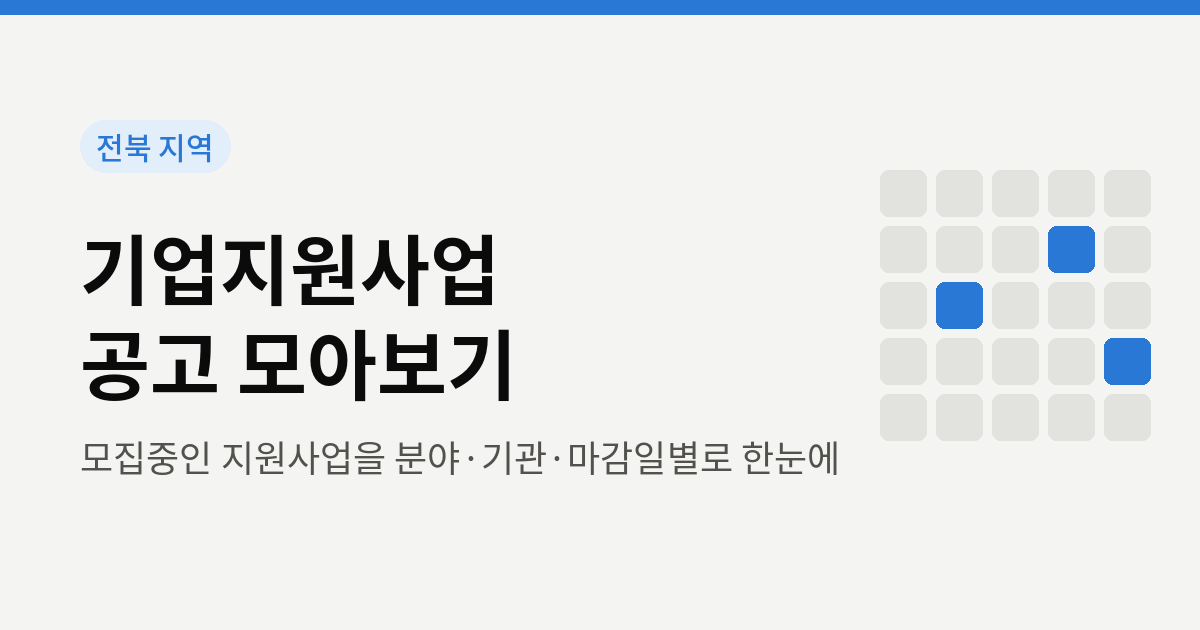
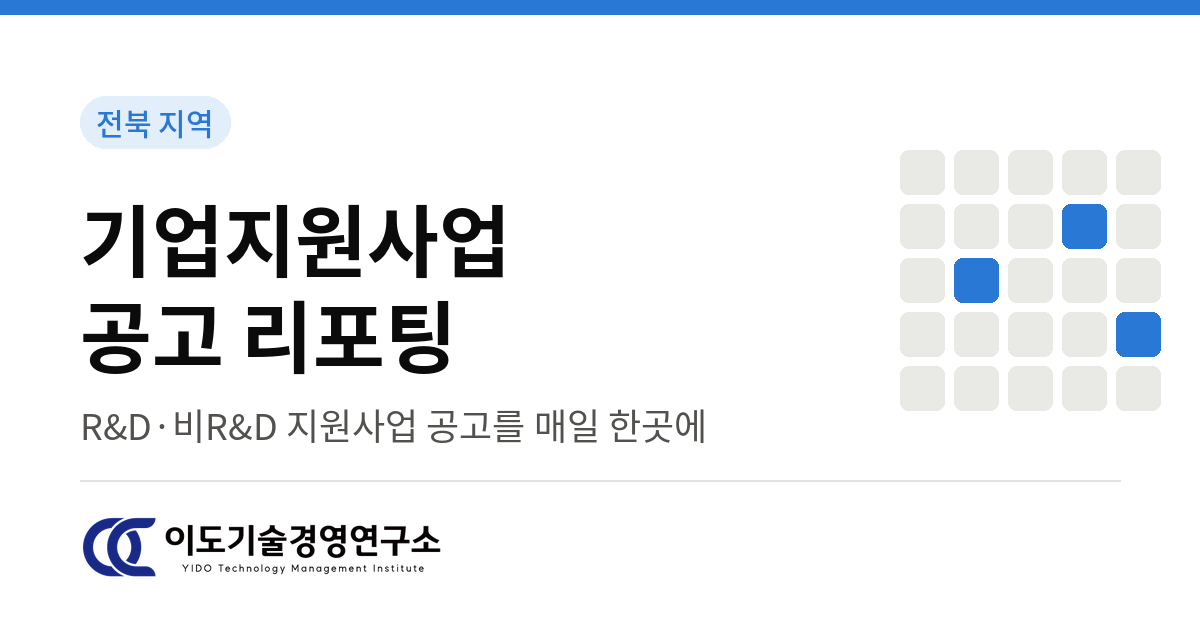
헤더 문구 변경(공고 리포팅), 이도기술경영연구소 로고 추가, 미리보기 이미지 교체
Claude-Session: https://claude.ai/code/session_01BttAXHtCKaFPysazJ2ceDH

diff --git a/index.html b/index.html
@@ -3,17 +3,18 @@
 <head>
 <meta charset="utf-8">
 <meta name="viewport" content="width=device-width, initial-scale=1">
-<title>전북 기업지원사업 공고 모아보기</title>
-<meta property="og:title" content="전북 기업지원사업 공고 모아보기">
-<meta property="og:description" content="모집중인 지원사업을 분야·기관·마감일별로 한눈에">
+<title>전북 기업지원사업 공고 리포팅 | 이도기술경영연구소</title>
+<meta property="og:title" content="전북 기업지원사업 공고 리포팅">
+<meta property="og:site_name" content="이도기술경영연구소">
 <meta property="og:type" content="website">
 <meta property="og:url" content="https://kahojung.github.io/JB-support/">
 <meta property="og:image" content="https://kahojung.github.io/JB-support/og.png">
 <meta property="og:image:width" content="1200">
 <meta property="og:image:height" content="630">
 <meta name="twitter:card" content="summary_large_image">
-<meta name="description" content="모집중인 지원사업을 분야·기관·마감일별로 한눈에">
+<meta name="description" content="전북 기업에 도움이 되는 R&amp;D·비R&amp;D 지원사업 공고를 매일 한곳에 모아 전해드립니다">
 <meta name="robots" content="noindex">
+<meta property="og:description" content="전북 기업에 도움이 되는 R&amp;D·비R&amp;D 지원사업 공고를 매일 한곳에 모아 전해드립니다">
 <link rel="preconnect" href="https://fonts.googleapis.com">
 <link href="https://fonts.googleapis.com/css2?family=Noto+Sans+KR:wght@400;500;700;800&display=swap" rel="stylesheet">
 <style>
@@ -43,9 +44,15 @@ a{color:inherit}
 header.top{background:var(--surface);border-bottom:1px solid var(--line)}
 header.top .wrap{display:flex;align-items:center;justify-content:space-between;gap:12px;padding-top:18px;padding-bottom:16px;flex-wrap:wrap}
 .brand{display:flex;align-items:center;gap:10px}
-.logo{width:34px;height:34px;border-radius:9px;background:var(--accent);display:grid;place-items:center;color:#fff;font-weight:800;font-size:15px}
+.logo{flex:none;width:34px;height:34px;border-radius:9px;background:var(--accent);display:grid;place-items:center;color:#fff;font-weight:800;font-size:15px}
 h1{font-size:19px;margin:0;font-weight:800;letter-spacing:-.02em}
 .sub{color:var(--text-2);font-size:13px}
+.side{display:flex;flex-direction:column;align-items:flex-end;gap:8px}
+.co{display:flex;align-items:center;gap:8px;text-decoration:none;pointer-events:none}
+.co-cap{font-size:11px;color:var(--muted);letter-spacing:.02em}
+.co-logo{height:30px;width:auto;display:block}
+@media (prefers-color-scheme:dark){.co-logo{background:#fff;padding:4px 8px;border-radius:8px;height:38px}}
+@media (max-width:600px){.side{align-items:flex-start;width:100%;padding-left:44px}.co-logo{height:24px}.co-cap{display:none}}
 .updated{font-size:12.5px;color:var(--text-2);background:var(--surface-2);padding:6px 10px;border-radius:999px;white-space:nowrap}
 .sample{background:var(--warn-soft);color:var(--text);font-size:13px;padding:8px 0}
 .sample .wrap{display:flex;gap:8px;align-items:center}
@@ -174,8 +181,11 @@ footer{color:var(--muted);font-size:12.5px;text-align:center;padding:20px 0 30px
 <body>
 <header class="top"><div class="wrap">
   <div class="brand"><div class="logo">전북</div>
-    <div><h1>기업지원사업 공고 모아보기</h1><div class="sub">도내 지원기관 공고를 매일 한곳에 모았습니다</div></div></div>
-  <div class="updated" id="updated"></div>
+    <div><h1>기업지원사업 공고 리포팅</h1><div class="sub">도내 기업에 도움이 되는 R&amp;D·비R&amp;D 지원사업 공고를 매일 한곳에 모아 전해드립니다</div></div></div>
+  <div class="side">
+    <a class="co" href="#" aria-label="리포팅: 이도기술경영연구소"><span class="co-cap">Reported by</span><img class="co-logo" src="logo.png" alt="이도기술경영연구소 YIDO Technology Management Institute" width="807" height="142"></a>
+    <div class="updated" id="updated"></div>
+  </div>
 </div></header>
 
 <main class="wrap">
